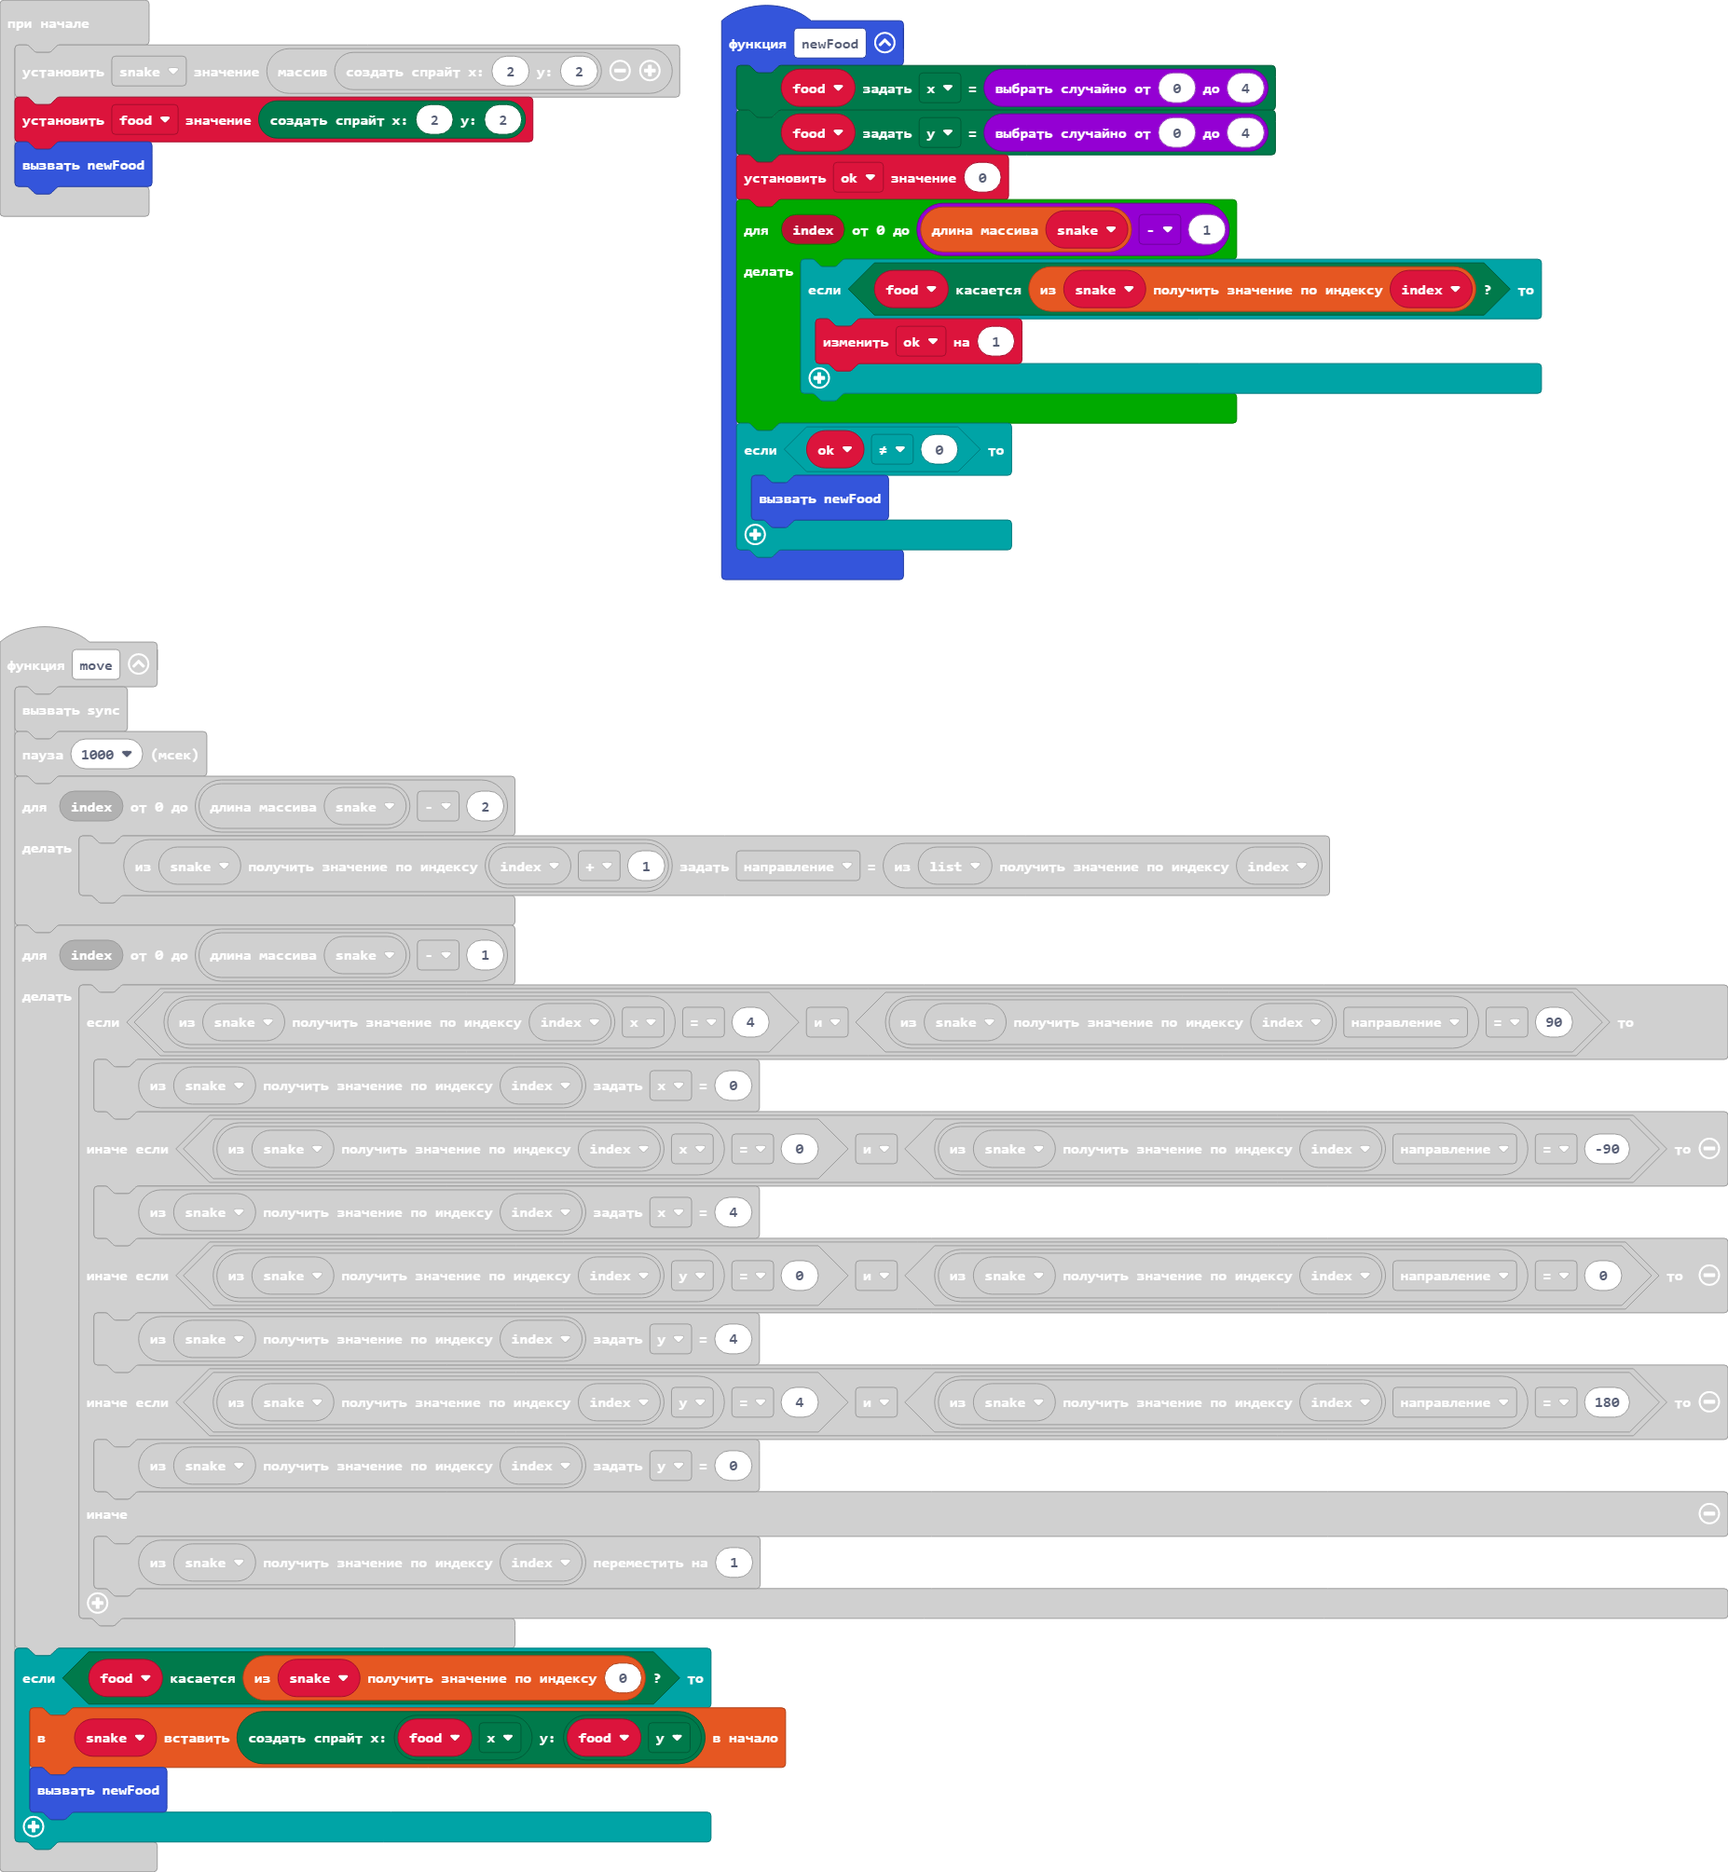
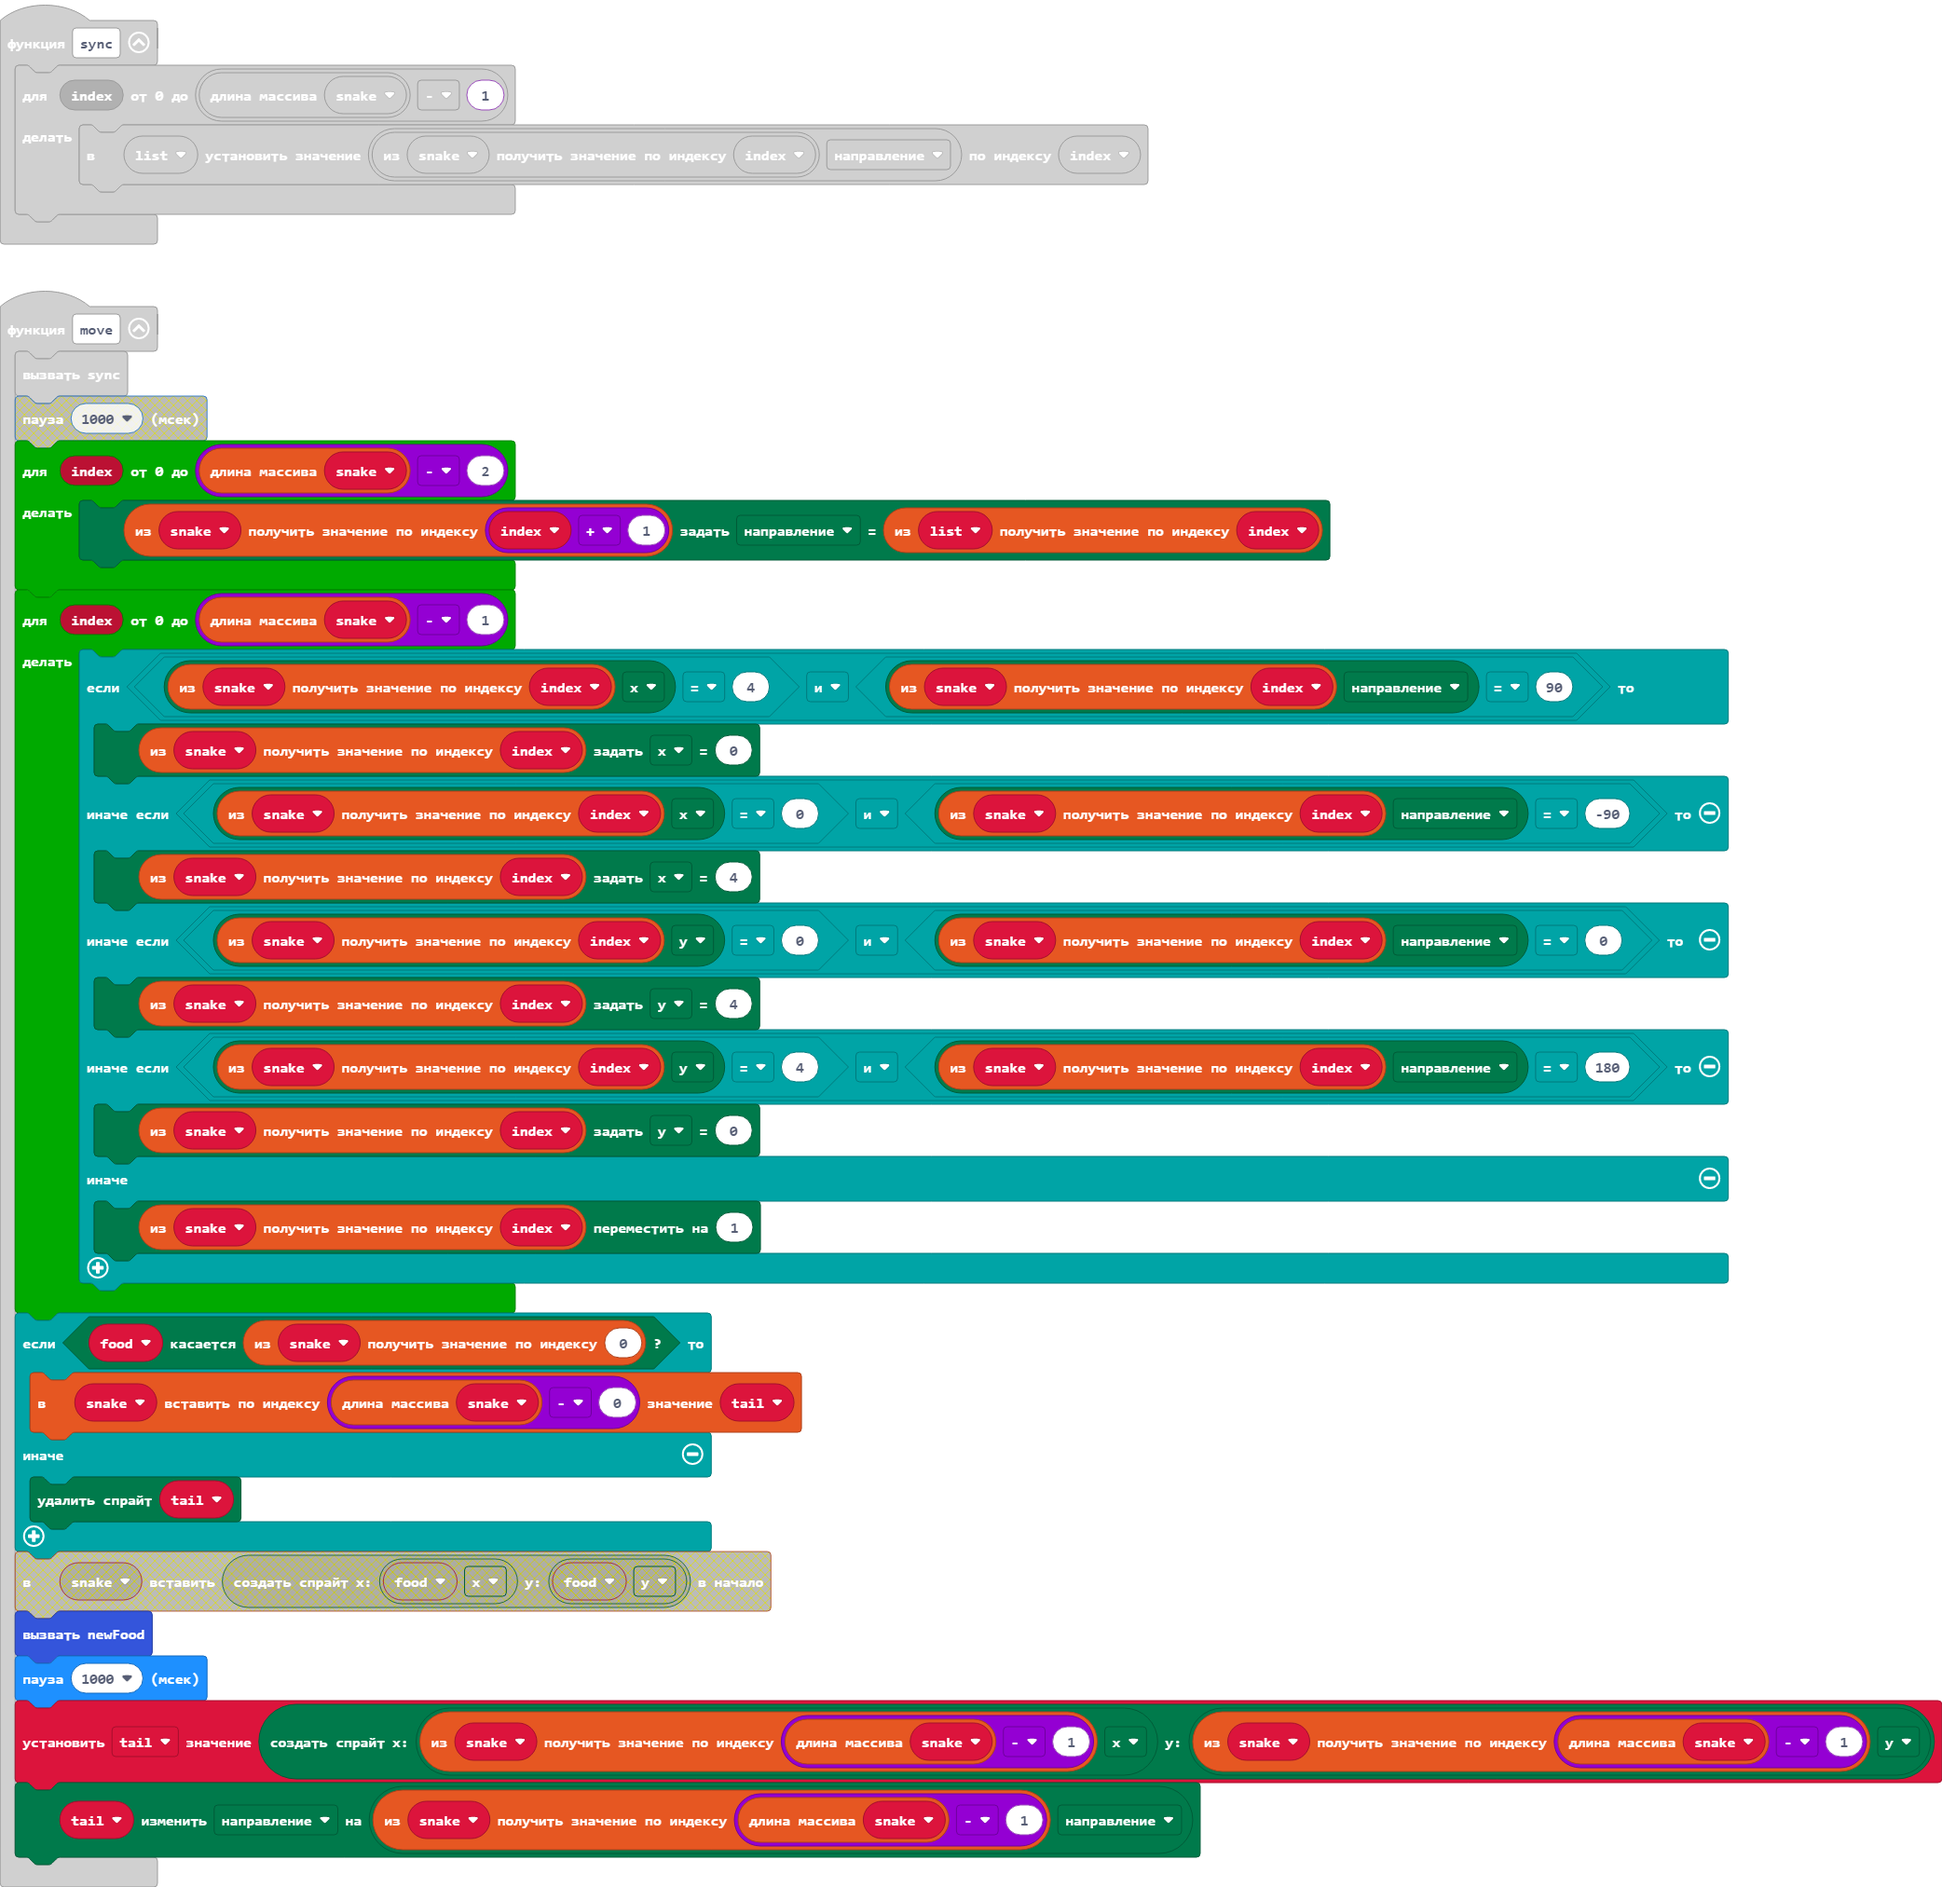
not work turn

diff --git a/main.ts b/main.ts
@@ -10,7 +10,7 @@ buttonClicks.onButtonDown(buttonClicks.AorB.B, function () {
     }
 })
 function sync () {
-    for (let index = 0; index <= snake.length - 2; index++) {
+    for (let index = 0; index <= snake.length - 1; index++) {
         list[index] = snake[index].get(LedSpriteProperty.Direction)
     }
 }
@@ -40,7 +40,8 @@ buttonClicks.onButtonDown(buttonClicks.AorB.A, function () {
 })
 function move () {
     sync()
-    basic.pause(1000)
+    tail = game.createSprite(snake[snake.length - 1].get(LedSpriteProperty.X), snake[snake.length - 1].get(LedSpriteProperty.Y))
+    tail.change(LedSpriteProperty.Direction, snake[snake.length - 1].get(LedSpriteProperty.Direction))
     for (let index = 0; index <= snake.length - 2; index++) {
         snake[index + 1].set(LedSpriteProperty.Direction, list[index])
     }
@@ -58,10 +59,14 @@ function move () {
         }
     }
     if (food.isTouching(snake[0])) {
-        snake.unshift(game.createSprite(food.get(LedSpriteProperty.X), food.get(LedSpriteProperty.Y)))
+        snake.insertAt(snake.length - 0, tail)
         newFood()
+    } else {
+        tail.delete()
     }
+    basic.pause(1000)
 }
+let tail: game.LedSprite = null
 let ok = 0
 let list: number[] = []
 let food: game.LedSprite = null
